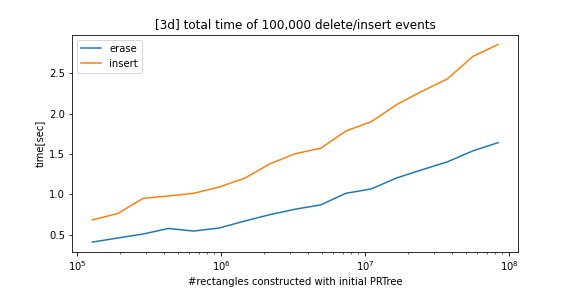
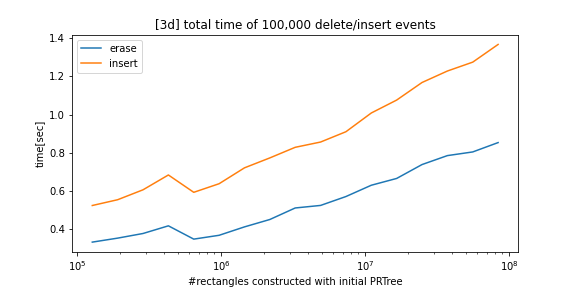
Improved performance (#31)
* fix

* lto

* bind

* fix

* fix

* fix

* fix

* fix

* fix

* fxi

* fix

* fix

diff --git a/cpp/prtree.h b/cpp/prtree.h
@@ -161,6 +161,12 @@ public:
     }
   }
 
+  Real val_for_comp(const int &axis) const
+  {
+    const int axis2 = (axis + 1) % (2 * D);
+    return values[axis] + values[axis2];
+  }
+
   BB operator+(const BB &rhs) const
   {
     Real result[2 * D];
@@ -189,18 +195,28 @@ public:
     }
   }
 
-  inline bool operator()(const BB &target) const
+  bool operator()(const BB &target) const
   { // whether this and target has any intersect
+
+    Real minima[D];
+    Real maxima[D];
+    bool flags[D];
+    bool flag = true;
+
     for (int i = 0; i < D; ++i)
     {
-      Real m = std::min(values[i], target.values[i]);
-      Real M = std::min(values[i + D], target.values[i + D]);
-      if (-m > M)
-      {
-        return false;
-      }
+      minima[i] = std::min(values[i], target.values[i]);
+      maxima[i] = std::min(values[i + D], target.values[i + D]);
     }
-    return true;
+    for (int i = 0; i < D; ++i)
+    {
+      flags[i] = -minima[i] < maxima[i];
+    }
+    for (int i = 0; i < D; ++i)
+    {
+      flag &= flags[i];
+    }
+    return flag;
   }
 
   Real area() const
@@ -257,10 +273,10 @@ template <class T, int B = 6, int D = 2>
 class Leaf
 {
 public:
-  int axis = 0;
-  Real min_val = 1e100;
   BB<D> mbb;
   svec<DataType<T, D>, B> data; // You can swap when filtering
+  int axis = 0;
+
   // T is type of keys(ids) which will be returned when you post a query.
   Leaf()
   {
@@ -283,41 +299,36 @@ public:
   void update_mbb()
   {
     mbb.clear();
-    min_val = 1e100;
     for (const auto &datum : data)
     {
       mbb += datum.second;
-      min_val = std::min(min_val, datum.second[axis]);
     }
-  }
-
-  inline auto find_swapee()
-  {
-    auto it = std::min_element(data.begin(), data.end(), [&](const auto &a, const auto &b) noexcept
-                               { return a.second[axis] < b.second[axis]; });
-    return it;
   }
 
   bool filter(DataType<T, D> &value)
   { // false means given value is ignored
+    auto comp = [=](const auto &a, const auto &b) noexcept
+    { return a.second.val_for_comp(axis) < b.second.val_for_comp(axis); };
+
     if (data.size() < B)
     { // if there is room, just push the candidate
-      data.push_back(value);
+      auto iter = std::lower_bound(data.begin(), data.end(), value, comp);
+      DataType<T, D> tmp_value = DataType<T, D>(value);
+      data.insert(iter, std::move(tmp_value));
       mbb += value.second;
-      min_val = std::min(min_val, value.second[axis]);
       return true;
     }
     else
     { // if there is no room, check the priority and swap if needed
-      /*
-      auto iter = std::upper_bound(data.begin(), data.end(), value, [&](const auto &a, const auto &b) noexcept
-                                { return a.second[axis] < b.second[axis]; });
-      if (iter != data.end())
-      */
-      if (min_val < value.second[axis])
+      if (data[0].second.val_for_comp(axis) < value.second.val_for_comp(axis))
       {
-        auto iter = find_swapee();
-        std::swap(*iter, value);
+        size_t n_swap = std::lower_bound(data.begin(), data.end(), value, comp) - data.begin();
+        std::swap(*data.begin(), value);
+        auto iter = data.begin();
+        for (size_t i = 0; i < n_swap - 1; ++i)
+        {
+          std::swap(*(iter + i), *(iter + i + 1));
+        }
         update_mbb();
       }
       return false;
@@ -1230,9 +1241,8 @@ public:
         X.push_back(std::move(bb));
       }
     }
-    T length = X.size();
     vec<vec<T>> out;
-    out.reserve(length);
+    out.reserve(X.size());
 #ifdef MY_DEBUG
     std::for_each(X.begin(), X.end(),
                   [&](const BB<D> &x)

diff --git a/cpp/parallel.h b/cpp/parallel.h
@@ -25,7 +25,7 @@ void parallel_for_each(const Iter first, const Iter last, T &result, const F &fu
     iters.emplace_back(last);
 
     result.reserve(total);
-    for (auto &&r : rr)
+    for (auto &r : rr)
     {
       r.reserve(total / nthreads + 1);
     }
